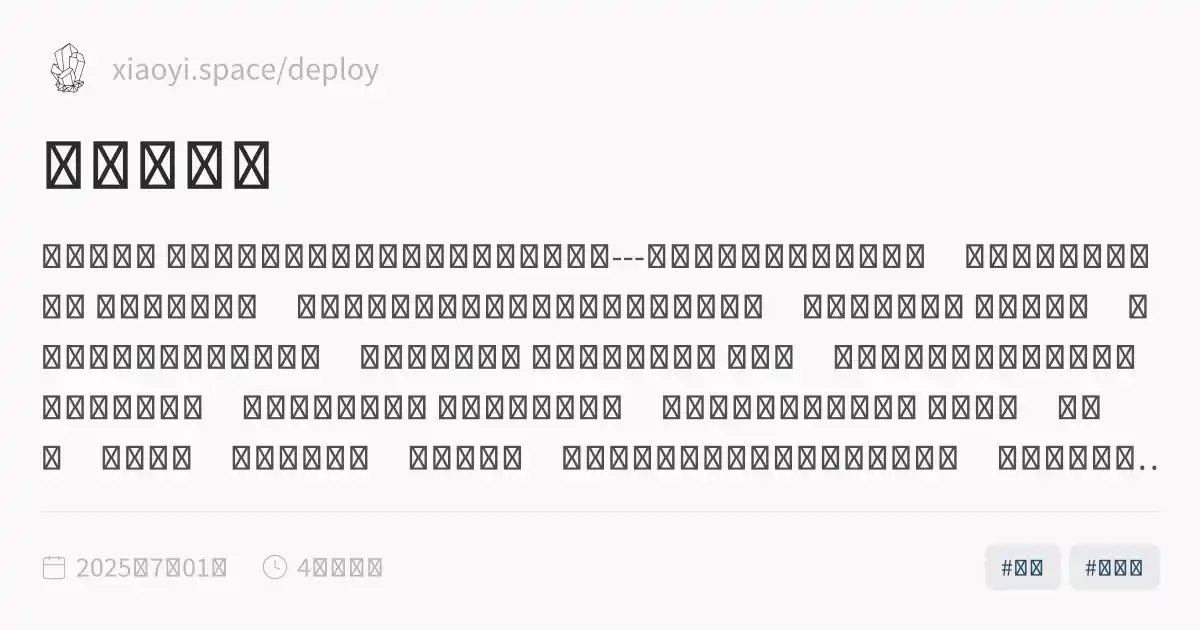
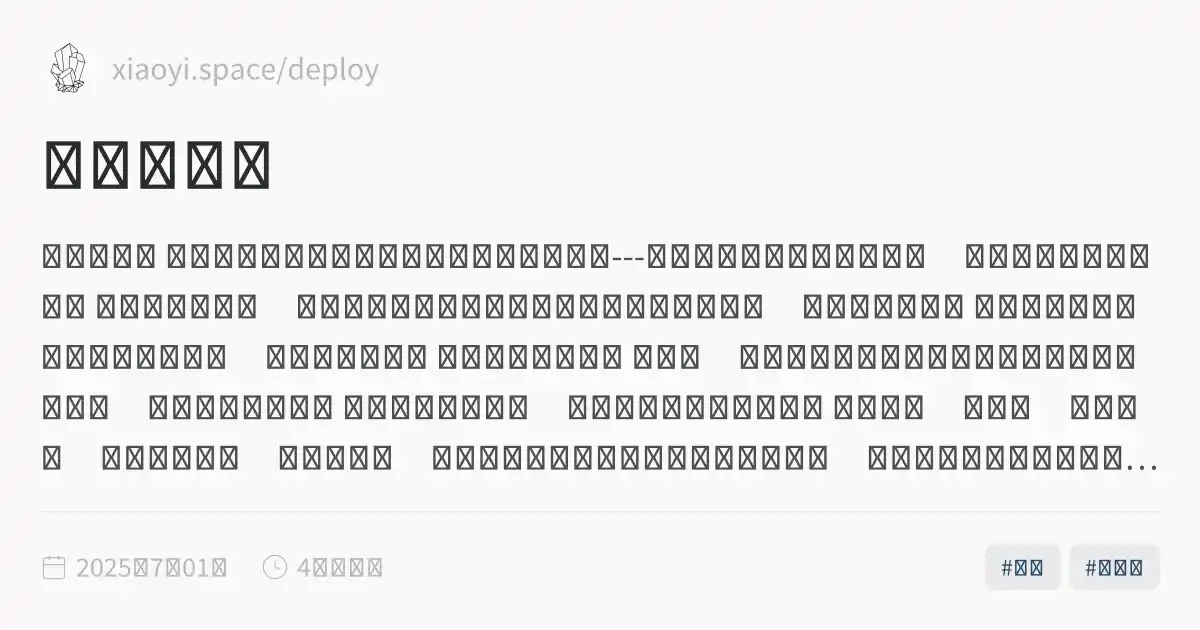
feature:update

diff --git a/deploy/最近更新.html b/deploy/最近更新.html
@@ -116,7 +116,7 @@ pre:hover > .expand-button {
   padding: 0 12px;
   font-size: 14px;
 }
[2 lines of base64/hex data omitted]
 <li><strong>[2025-07-02 00:58]</strong> <a href="./一件神奇的事情" class="internal alias" data-slug="一件神奇的事情">一件神奇的事情</a></li>
 <li><strong>[2025-07-01 00:35]</strong> <a href="./推荐一种药" class="internal alias" data-slug="推荐一种药">推荐一种药</a></li>
 <li><strong>[2025-06-25 01:19]</strong> <a href="./35岁来了" class="internal alias" data-slug="35岁来了">35岁来了</a></li>

diff --git a/deploy/推荐一种药.html b/deploy/推荐一种药.html
@@ -1,5 +1,5 @@
 <!DOCTYPE html>
-<html lang="zh"><head><title>推荐一种药</title><meta charset="utf-8"/><link rel="preconnect" href="https://fonts.googleapis.com"/><link rel="preconnect" href="https://fonts.gstatic.com"/><link rel="stylesheet" href="https://fonts.googleapis.com/css2?family=Schibsted Grotesk:wght@400;700&amp;family=Source Sans Pro:ital,wght@0,400;0,600;1,400;1,600&amp;family=IBM Plex Mono:wght@400;600&amp;display=swap"/><link rel="preconnect" href="https://cdnjs.cloudflare.com" crossorigin="anonymous"/><meta name="viewport" content="width=device-width, initial-scale=1.0"/><meta name="og:site_name" content="xiaoyi.space"/><meta property="og:title" content="推荐一种药"/><meta property="og:type" content="website"/><meta name="twitter:card" content="summary_large_image"/><meta name="twitter:title" content="推荐一种药"/><meta name="twitter:description" content="背景是什么 早年的时候生活习惯很不健康。喜欢吃肉类---尤其还喜欢动物内脏、海鲜，而且还有点喜欢喝酒。 我在上学的时候，就喜欢一小瓶二锅头自己独酌。同学朋友聚餐，经常不醉不归。 所以很蛋疼，这样生活的结果就是尿酸升高，痛风不请自来。 发作起来有多痛苦 痛风嘛，本质就是高尿酸导致的骨头关节里面形成结晶，然后诱发的炎症。 在第一次痛风以前，不能理解这个词的精妙。 手指关节，踝关节，脚趾关节，肘关节都疼过，发作的时候，如同有一个人在用小锤子凿自己的骨头，「风吹一下都能感觉到疼」，嗯，所以叫痛风。 治疗历程是怎样的 体检查出高尿酸指征，并且有痛风发作史以后，医生开了非布司他。 不过要知道，这个药的作用..."/><meta property="og:description" content="背景是什么 早年的时候生活习惯很不健康。喜欢吃肉类---尤其还喜欢动物内脏、海鲜，而且还有点喜欢喝酒。 我在上学的时候，就喜欢一小瓶二锅头自己独酌。同学朋友聚餐，经常不醉不归。 所以很蛋疼，这样生活的结果就是尿酸升高，痛风不请自来。 发作起来有多痛苦 痛风嘛，本质就是高尿酸导致的骨头关节里面形成结晶，然后诱发的炎症。 在第一次痛风以前，不能理解这个词的精妙。 手指关节，踝关节，脚趾关节，肘关节都疼过，发作的时候，如同有一个人在用小锤子凿自己的骨头，「风吹一下都能感觉到疼」，嗯，所以叫痛风。 治疗历程是怎样的 体检查出高尿酸指征，并且有痛风发作史以后，医生开了非布司他。 不过要知道，这个药的作用..."/><meta property="og:image:alt" content="背景是什么 早年的时候生活习惯很不健康。喜欢吃肉类---尤其还喜欢动物内脏、海鲜，而且还有点喜欢喝酒。 我在上学的时候，就喜欢一小瓶二锅头自己独酌。同学朋友聚餐，经常不醉不归。 所以很蛋疼，这样生活的结果就是尿酸升高，痛风不请自来。 发作起来有多痛苦 痛风嘛，本质就是高尿酸导致的骨头关节里面形成结晶，然后诱发的炎症。 在第一次痛风以前，不能理解这个词的精妙。 手指关节，踝关节，脚趾关节，肘关节都疼过，发作的时候，如同有一个人在用小锤子凿自己的骨头，「风吹一下都能感觉到疼」，嗯，所以叫痛风。 治疗历程是怎样的 体检查出高尿酸指征，并且有痛风发作史以后，医生开了非布司他。 不过要知道，这个药的作用..."/><meta property="twitter:domain" content="xiaoyi.space/deploy"/><meta property="og:url" content="https://xiaoyi.space/deploy/推荐一种药"/><meta property="twitter:url" content="https://xiaoyi.space/deploy/推荐一种药"/><link rel="icon" href="./static/icon.png"/><meta name="description" content="背景是什么 早年的时候生活习惯很不健康。喜欢吃肉类---尤其还喜欢动物内脏、海鲜，而且还有点喜欢喝酒。 我在上学的时候，就喜欢一小瓶二锅头自己独酌。同学朋友聚餐，经常不醉不归。 所以很蛋疼，这样生活的结果就是尿酸升高，痛风不请自来。 发作起来有多痛苦 痛风嘛，本质就是高尿酸导致的骨头关节里面形成结晶，然后诱发的炎症。 在第一次痛风以前，不能理解这个词的精妙。 手指关节，踝关节，脚趾关节，肘关节都疼过，发作的时候，如同有一个人在用小锤子凿自己的骨头，「风吹一下都能感觉到疼」，嗯，所以叫痛风。 治疗历程是怎样的 体检查出高尿酸指征，并且有痛风发作史以后，医生开了非布司他。 不过要知道，这个药的作用..."/><meta name="generator" content="Quartz"/><link href="./index.css" rel="stylesheet" type="text/css" spa-preserve/><style>.expand-button {
+<html lang="zh"><head><title>推荐一种药</title><meta charset="utf-8"/><link rel="preconnect" href="https://fonts.googleapis.com"/><link rel="preconnect" href="https://fonts.gstatic.com"/><link rel="stylesheet" href="https://fonts.googleapis.com/css2?family=Schibsted Grotesk:wght@400;700&amp;family=Source Sans Pro:ital,wght@0,400;0,600;1,400;1,600&amp;family=IBM Plex Mono:wght@400;600&amp;display=swap"/><link rel="preconnect" href="https://cdnjs.cloudflare.com" crossorigin="anonymous"/><meta name="viewport" content="width=device-width, initial-scale=1.0"/><meta name="og:site_name" content="xiaoyi.space"/><meta property="og:title" content="推荐一种药"/><meta property="og:type" content="website"/><meta name="twitter:card" content="summary_large_image"/><meta name="twitter:title" content="推荐一种药"/><meta name="twitter:description" content="背景是什么 早年的时候生活习惯很不健康。喜欢吃肉类---尤其还喜欢动物内脏、海鲜，而且还有点喜欢喝酒。 我在上学的时候，就喜欢一小瓶二锅头自己独酌。同学朋友聚餐，经常不醉不归。 长期这样生活的结果就是尿酸升高，痛风不请自来。 发作起来有多痛苦 痛风嘛，本质就是高尿酸导致的骨头关节里面形成结晶，然后诱发的炎症。 在第一次痛风以前，不能理解这个词的精妙。 手指关节，踝关节，脚趾关节，肘关节都疼过，发作的时候，如同有一个人在用小锤子凿自己的骨头，「风吹一下都能感觉到疼」，嗯，所以叫痛风。 治疗历程是怎样的 体检查出高尿酸指征，并且有痛风发作史以后，医生开了非布司他。 不过要知道，这个药的作用不是治疗..."/><meta property="og:description" content="背景是什么 早年的时候生活习惯很不健康。喜欢吃肉类---尤其还喜欢动物内脏、海鲜，而且还有点喜欢喝酒。 我在上学的时候，就喜欢一小瓶二锅头自己独酌。同学朋友聚餐，经常不醉不归。 长期这样生活的结果就是尿酸升高，痛风不请自来。 发作起来有多痛苦 痛风嘛，本质就是高尿酸导致的骨头关节里面形成结晶，然后诱发的炎症。 在第一次痛风以前，不能理解这个词的精妙。 手指关节，踝关节，脚趾关节，肘关节都疼过，发作的时候，如同有一个人在用小锤子凿自己的骨头，「风吹一下都能感觉到疼」，嗯，所以叫痛风。 治疗历程是怎样的 体检查出高尿酸指征，并且有痛风发作史以后，医生开了非布司他。 不过要知道，这个药的作用不是治疗..."/><meta property="og:image:alt" content="背景是什么 早年的时候生活习惯很不健康。喜欢吃肉类---尤其还喜欢动物内脏、海鲜，而且还有点喜欢喝酒。 我在上学的时候，就喜欢一小瓶二锅头自己独酌。同学朋友聚餐，经常不醉不归。 长期这样生活的结果就是尿酸升高，痛风不请自来。 发作起来有多痛苦 痛风嘛，本质就是高尿酸导致的骨头关节里面形成结晶，然后诱发的炎症。 在第一次痛风以前，不能理解这个词的精妙。 手指关节，踝关节，脚趾关节，肘关节都疼过，发作的时候，如同有一个人在用小锤子凿自己的骨头，「风吹一下都能感觉到疼」，嗯，所以叫痛风。 治疗历程是怎样的 体检查出高尿酸指征，并且有痛风发作史以后，医生开了非布司他。 不过要知道，这个药的作用不是治疗..."/><meta property="twitter:domain" content="xiaoyi.space/deploy"/><meta property="og:url" content="https://xiaoyi.space/deploy/推荐一种药"/><meta property="twitter:url" content="https://xiaoyi.space/deploy/推荐一种药"/><link rel="icon" href="./static/icon.png"/><meta name="description" content="背景是什么 早年的时候生活习惯很不健康。喜欢吃肉类---尤其还喜欢动物内脏、海鲜，而且还有点喜欢喝酒。 我在上学的时候，就喜欢一小瓶二锅头自己独酌。同学朋友聚餐，经常不醉不归。 长期这样生活的结果就是尿酸升高，痛风不请自来。 发作起来有多痛苦 痛风嘛，本质就是高尿酸导致的骨头关节里面形成结晶，然后诱发的炎症。 在第一次痛风以前，不能理解这个词的精妙。 手指关节，踝关节，脚趾关节，肘关节都疼过，发作的时候，如同有一个人在用小锤子凿自己的骨头，「风吹一下都能感觉到疼」，嗯，所以叫痛风。 治疗历程是怎样的 体检查出高尿酸指征，并且有痛风发作史以后，医生开了非布司他。 不过要知道，这个药的作用不是治疗..."/><meta name="generator" content="Quartz"/><link href="./index.css" rel="stylesheet" type="text/css" spa-preserve/><style>.expand-button {
   position: absolute;
   display: flex;
   float: right;
@@ -119,7 +119,7 @@ pre:hover > .expand-button {
[1 lines of base64/hex data omitted]
 <p>早年的时候生活习惯很不健康。喜欢吃肉类---尤其还喜欢动物内脏、海鲜，而且还有点喜欢喝酒。
 我在上学的时候，就喜欢一小瓶二锅头自己独酌。同学朋友聚餐，经常不醉不归。
-所以很蛋疼，这样生活的结果就是尿酸升高，痛风不请自来。</p>
+长期这样生活的结果就是尿酸升高，痛风不请自来。</p>
 <h1 id="发作起来有多痛苦">发作起来有多痛苦<a role="anchor" aria-hidden="true" tabindex="-1" data-no-popover="true" href="#发作起来有多痛苦" class="internal"><svg width="18" height="18" viewBox="0 0 24 24" fill="none" stroke="currentColor" stroke-width="2" stroke-linecap="round" stroke-linejoin="round"><path d="M10 13a5 5 0 0 0 7.54.54l3-3a5 5 0 0 0-7.07-7.07l-1.72 1.71"></path><path d="M14 11a5 5 0 0 0-7.54-.54l-3 3a5 5 0 0 0 7.07 7.07l1.71-1.71"></path></svg></a></h1>
 <p>痛风嘛，本质就是高尿酸导致的骨头关节里面形成结晶，然后诱发的炎症。
 在第一次痛风以前，不能理解这个词的精妙。
